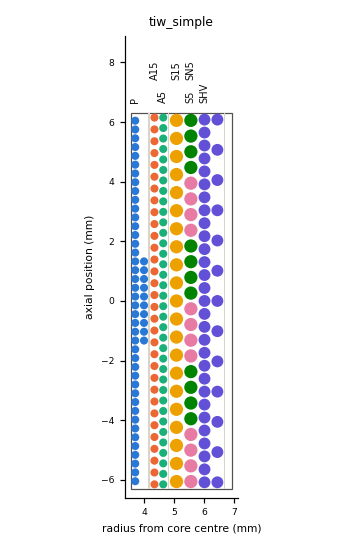
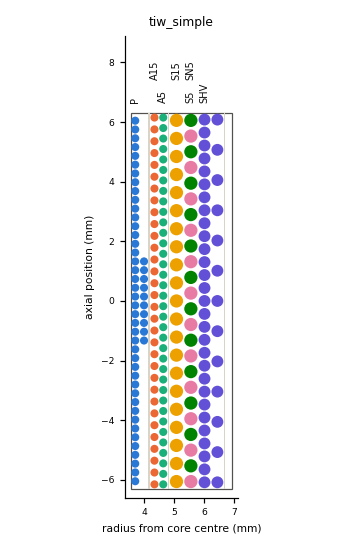
simulation/flyback step 2 (in progress): calibrated results for current, tiw_simple, tiw_sandwich (multifilar), recommended; sandwich_paired options added

diff --git a/simulation/flyback/options.py b/simulation/flyback/options.py
@@ -180,13 +180,33 @@ def recommended(preload=None):
     return o
 
 
+def sandwich_paired(order="b"):
+    """TIW sandwich with every voltage class paired in one multifilar layer: the two 15 V
+    windings (A15 enamel + S15 TIW, both 8 T) and the three 5 V windings (A5 + S5 + SN5,
+    3 T) each share a layer, so each pair sees the same leakage field and the feedback
+    winding A5 sits directly beside the 15 V pair.
+    order b: P1 | SHV | A15+S15 | A5+S5+SN5 | P2   (low-turn layers shielded from P1 by SHV)
+    order c: P1 | A5+S5+SN5 | A15+S15 | SHV | P2   (feedback layer next to the primary)"""
+    p1 = {"windings": [("P1", 26, 1, W30, PRI)], "align": "spread", "tape_after": 1}
+    p2 = {"windings": [("P2", 26, 1, W30, PRI)], "align": "spread", "tape_after": 1}
+    shv = {"windings": [("SHV", 42, 1, TIW32, SEC)], "align": "spread"}
+    w15 = {"windings": [("A15", 8, 3, W30, PRI), ("S15", 8, 3, TIW30, SEC)], "mode": "multifilar", "align": "spread"}
+    w5 = {"windings": [("A5", 3, 3, W30, PRI), ("S5", 3, 3, TIW30, SEC), ("SN5", 3, 3, TIW30, SEC)],
+          "mode": "multifilar", "align": "spread"}
+    secs = [p1, shv, w15, w5, p2] if order == "b" else [p1, w5, w15, shv, p2]
+    names = " | ".join("+".join(w[0] for w in x["windings"]) for x in secs)
+    return {"name": f"sandwich_paired_{order}", "title": f"TIW sandwich, paired layers, S15 8 T: {names}",
+            "sections": secs}
+
+
 PRELOAD = {"20V": 3300.0, "5V": 1000.0}      # what-if preload resistors (not in the schematic)
 
 
 OPTIONS = {"current": current, "stacked": stacked, "margin_sandwich": margin_sandwich,
            "tiw_simple": tiw_simple, "tiw_sandwich": tiw_sandwich,
            "tiw_sandwich_stacked": tiw_sandwich_stacked,
-           "recommended": recommended, "recommended_pre": lambda: recommended(PRELOAD)}
+           "recommended": recommended, "recommended_pre": lambda: recommended(PRELOAD),
+           "sandwich_paired_b": lambda: sandwich_paired("b"), "sandwich_paired_c": lambda: sandwich_paired("c")}
 
 
 def get(name):

diff --git a/simulation/flyback/report.py b/simulation/flyback/report.py
@@ -46,6 +46,8 @@ ISOLATION = {
     "tiw_sandwich_stacked": "as tiw_sandwich",
     "recommended": "as tiw_sandwich",
     "recommended_pre": "as tiw_sandwich",
+    "sandwich_paired_b": "as tiw_sandwich (TIW S15 / S5 / SN5 interleaved strand by strand with enamel A15 / A5)",
+    "sandwich_paired_c": "as sandwich_paired_b",
 }
 COLORS = ["#2a78d6", "#eb6834", "#1baf7a", "#eda100", "#e87ba4", "#008300", "#6250d6", "#e34948"]
 

diff --git a/simulation/flyback/results.md b/simulation/flyback/results.md
@@ -7,12 +7,18 @@ Generated by `run_flyback.py --report`. Leakage: OpenMagnetics; rail voltages: n
 | option | P–A5 | P–S15 | P–S5 | P–SN5 | P–SHV | A5–S15 | A5–S5 | A5–SN5 | A5–SHV | build mm |
 |---|---|---|---|---|---|---|---|---|---|---|
 | current | 30.3 | 24.1 | 45.4 | 51.6 | 34.2 | 20.3 | 32.2 | 42.9 | 43.3 | 3.22 |
+| tiw_simple | 7.5 | 11.4 | 16.6 | 16.6 | 21.6 | 3.2 | 8.5 | 8.6 | 13.5 | 3.17 |
+| tiw_sandwich | 7.7 | 5.4 | 6.5 | 6.6 | 4.8 | 5.3 | 4.1 | 5.0 | 6.1 | 2.93 |
+| recommended | 7.7 | 5.4 | 6.5 | 6.6 | 4.8 | 5.3 | 4.1 | 5.0 | 6.1 | 2.93 |
 
 ## Rail voltage, nominal case and min–max over the load cases at 400 V (V, magnitude)
 
 | option | 15V | 5V | 15V_ISO_SEC | 5V_ISOL | -5V_SEC | -100V BIAS | Vcol max |
 |---|---|---|---|---|---|---|---|
 | current | 15.44 (14.94–19.92) | 5.16 (4.87–6.14) | 12.94 (12.63–13.76) | 5.05 (4.89–5.41) | 5.05 (4.99–5.39) | 80.67 (78.55–81.85) | 587 |
+| tiw_simple | 15.05 (14.84–16.72) | 5.06 (4.98–5.81) | 12.84 (12.70–13.64) | 4.94 (4.81–5.29) | 4.96 (4.89–5.27) | 80.59 (79.78–80.99) | 563 |
+| tiw_sandwich | 14.45 (14.06–15.79) | 4.93 (4.82–6.41) | 12.64 (12.64–14.80) | 4.88 (4.79–5.25) | 4.90 (4.86–5.44) | 80.29 (77.18–81.54) | 546 |
+| recommended | 14.49 (14.08–15.84) | 4.95 (4.81–6.38) | 14.61 (14.61–16.86) | 4.89 (4.79–5.24) | 4.91 (4.87–5.42) | 80.46 (77.27–81.43) | 546 |
 
 ## Limits and targets
 
@@ -21,12 +27,18 @@ Generated by `run_flyback.py --report`. Leakage: OpenMagnetics; rail voltages: n
 | option | 15V max (≤ 18.7 V) | 15V idle (measured 15.5 V on the current build) | 15V_ISO_SEC min–max (target 15) | 5V max | 5V_ISOL min–max | -5V min–max | -100V BIAS min–max |
 |---|---|---|---|---|---|---|---|
 | current | 19.92 **EXCEEDS** | 15.95 | 12.63–13.76 | 6.14 | 4.89–5.41 | 4.99–5.39 | 78.55–81.85 |
+| tiw_simple | 16.72 OK | 15.58 | 12.70–13.64 | 5.81 | 4.81–5.29 | 4.89–5.27 | 79.78–80.99 |
+| tiw_sandwich | 15.79 OK | 14.52 | 12.62–14.80 | 6.41 | 4.79–5.25 | 4.86–5.44 | 77.18–81.54 |
+| recommended | 15.84 OK | 14.49 | 14.57–16.86 | 6.38 | 4.79–5.24 | 4.87–5.42 | 77.27–81.43 |
 
 ## Rectifier peak reverse voltage, max over the load cases at 400 V (V, 50 ns filtered; ES1D = 200 V)
 
 | option | D5 (15V) | D6 (5V) | D4 (15V_ISO_SEC) | D29 (5V_ISOL) | D14 (-5V_SEC) | D8 (-100V BIAS) | Vcol max | snubber R45 W (nom) |
 |---|---|---|---|---|---|---|---|---|
 | current | 81 | 29 | 67 | 28 | 29 | 402 **> 200** | 587 | 0.011 |
+| tiw_simple | 77 | 28 | 66 | 28 | 28 | 390 **> 200** | 563 | 0.010 |
+| tiw_sandwich | 77 | 30 | 69 | 28 | 29 | 403 **> 200** | 546 | 0.009 |
+| recommended | 77 | 30 | 79 | 28 | 29 | 403 **> 200** | 546 | 0.009 |
 
 ## Losses, flux, build and isolation per option (nominal case)
 
@@ -35,9 +47,15 @@ Winding losses: MKF (DC + skin + proximity, 60 °C) from the simulated currents 
 | option | winding losses W | of which primary W | core W (Roshen–iGSE) | Bpk nom T | radial build mm (window 3.40) | isolation |
 |---|---|---|---|---|---|---|
 | current | – | – | – | – | 3.22 | enamel + 3 mm margin tape both sides (6 mm creepage), 4 tape layers at the barrier |
+| tiw_simple | – | – | – | – | 3.17 | TIW (TCA3, reinforced by the wire) on all isolated windings, no margins; 1 tape layer |
+| tiw_sandwich | – | – | – | – | 2.93 | TIW on all isolated windings, no margins; P1–P2 crossover sleeved across the secondaries |
+| recommended | – | – | – | – | 2.93 | as tiw_sandwich |
 
 ## Spread (max − min over the load cases at 400 V), V
 
 | option | 15V | 5V | 15V_ISO_SEC | 5V_ISOL | -5V_SEC | -100V BIAS |
 |---|---|---|---|---|---|---|
 | current | 4.98 | 1.27 | 1.12 | 0.52 | 0.40 | 3.30 |
+| tiw_simple | 1.89 | 0.82 | 0.94 | 0.49 | 0.38 | 1.21 |
+| tiw_sandwich | 1.72 | 1.59 | 2.16 | 0.46 | 0.58 | 4.36 |
+| recommended | 1.76 | 1.57 | 2.25 | 0.45 | 0.55 | 4.16 |

diff --git a/simulation/flyback/NEXT.md b/simulation/flyback/NEXT.md
@@ -15,6 +15,11 @@
   15.95 V (measured 15.5 V), light 16.64 V, nominal 15.44 V, worst case min_15V 19.92 V
   (isolated rails loaded, primary 15V only its fixed load) – exceeds 18.7 V. D8 reverse
   389–402 V at 400 V (341 V at 325 V): 200 V ES1D overstressed (FLYBACK_DESIGN.md 6).
+- Step 2 partial results (calibrated): current, tiw_sandwich, tiw_simple, recommended done
+  (see results.md); recommended_pre, stacked, tiw_sandwich_stacked, margin_sandwich running.
+  Added options sandwich_paired_b / _c (15 V pair and 5 V triple each in one multifilar
+  layer) – to run after the batch: `run_flyback.py --om-only sandwich_paired_b
+  sandwich_paired_c`, then each option.
 - Step 2 – batch running: `--om-only --force` for all options, then current, tiw_sandwich,
   tiw_simple, recommended, recommended_pre, stacked, tiw_sandwich_stacked, margin_sandwich
   (one ngspice at a time). If stopped: rerun the same commands; cached cases are skipped.
